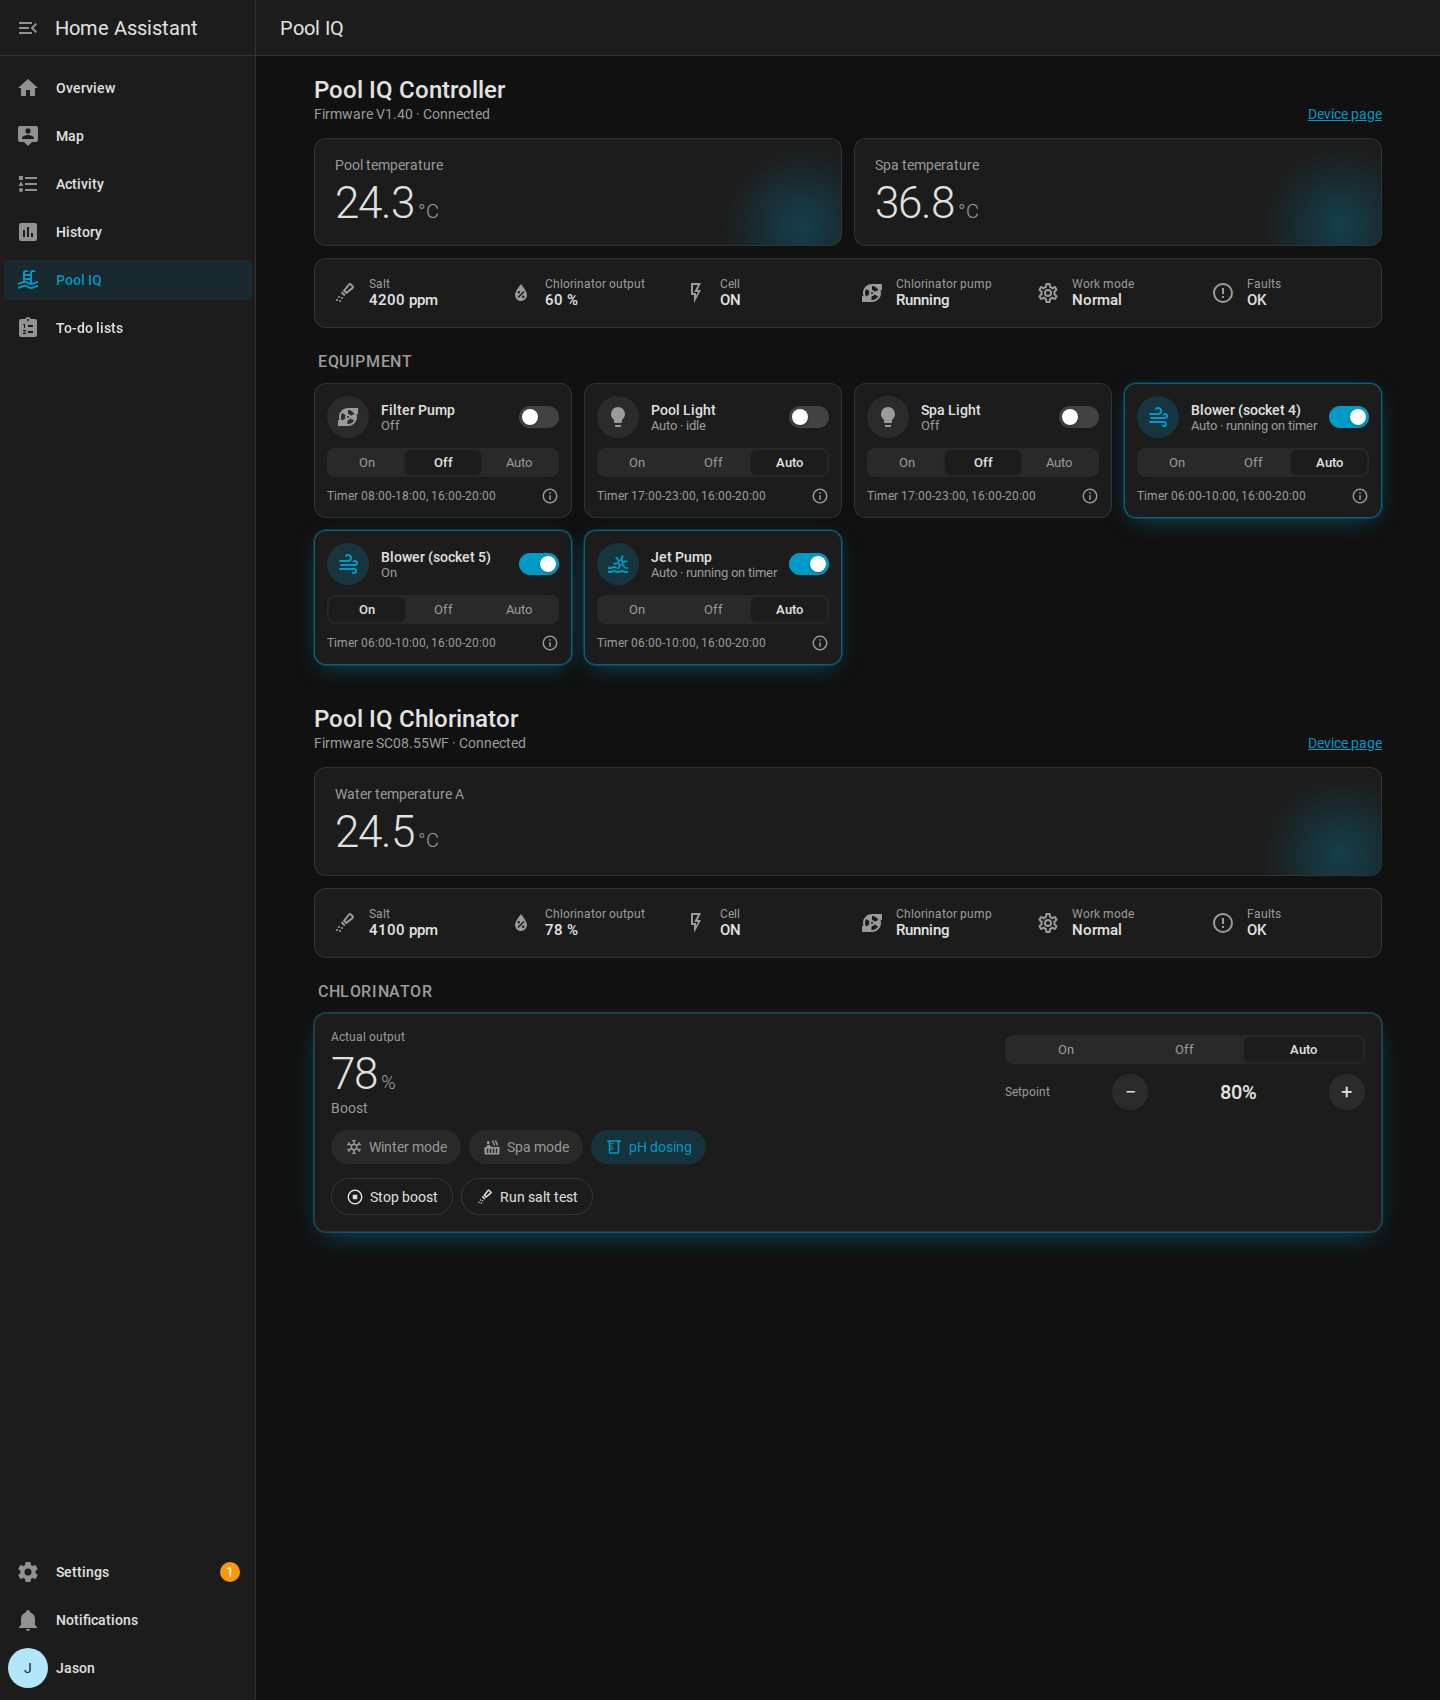
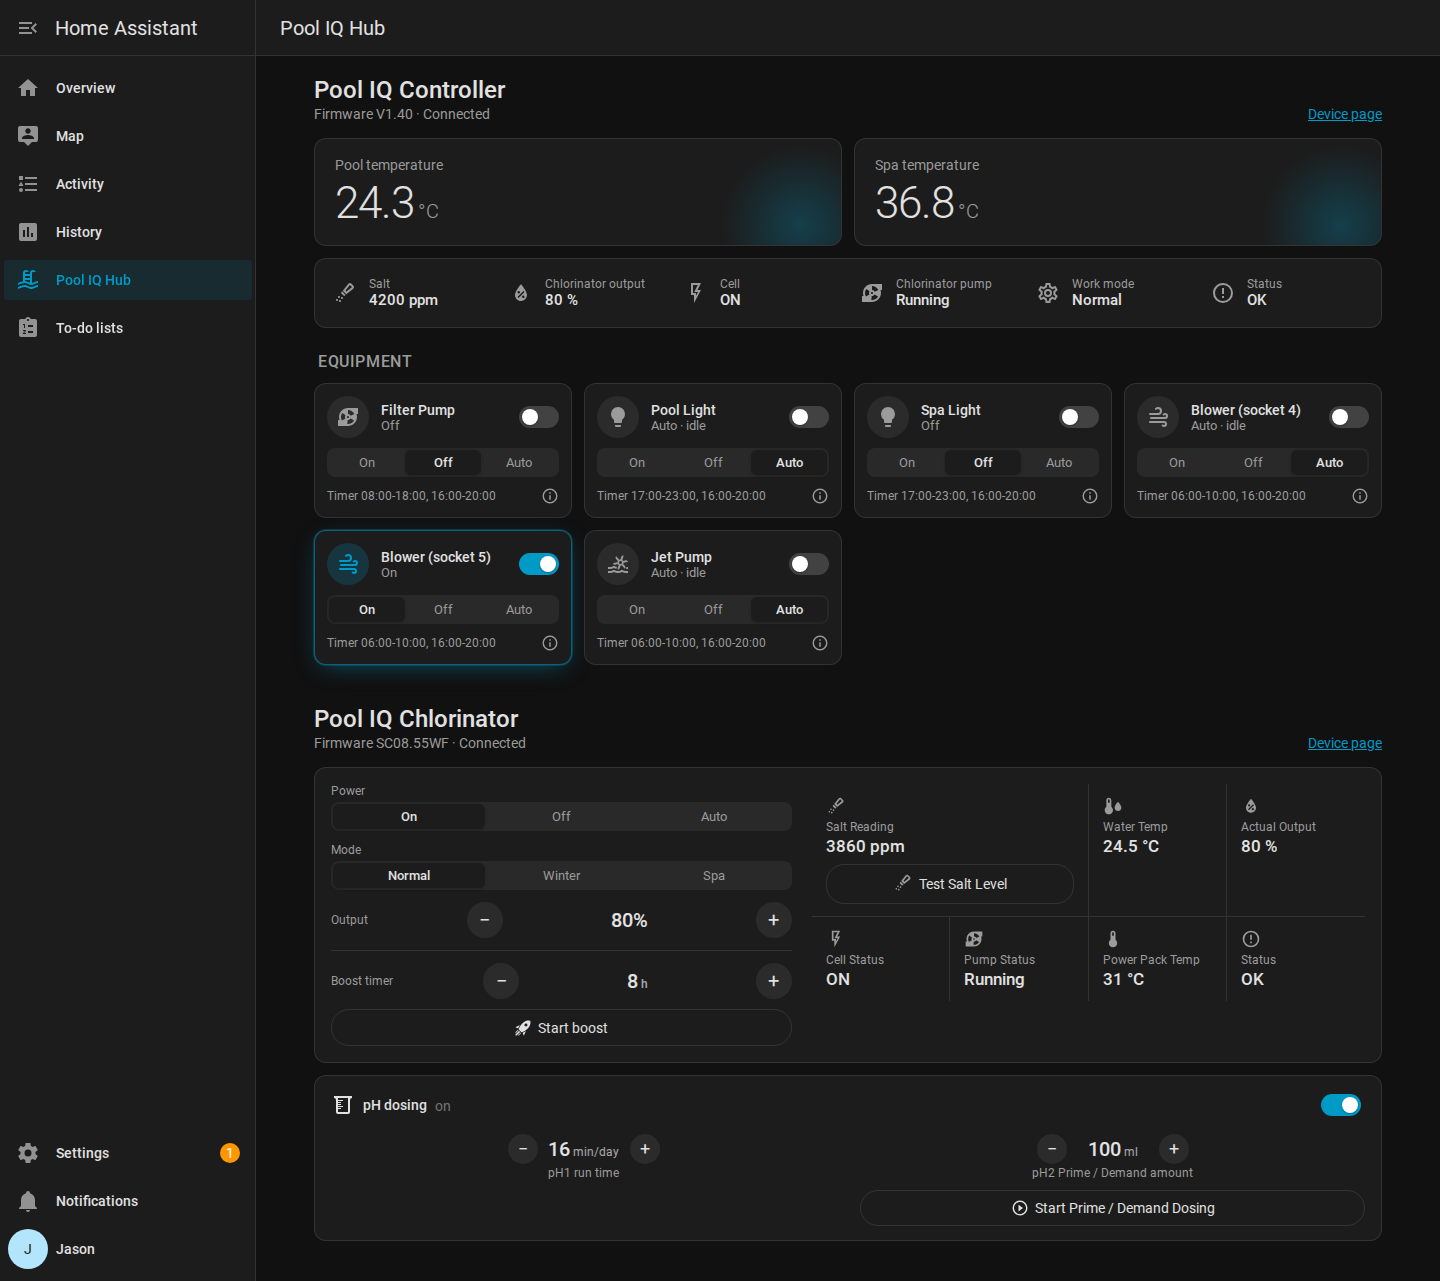
Release 0.4.8: sidebar named Pool IQ Hub, screenshots updated
- Sidebar item and page title renamed to Pool IQ Hub (option label too).
- README and install guide screenshots retaken with the current layout:
  full page, phone view, chlorinator device page, setup form.
- README and install guide describe the controller and chlorinator pages.

Claude-Session: https://claude.ai/code/session_01257QZwe8CHSdfKF85YoHYN

diff --git a/custom_components/pooliq/frontend/pooliq-panel.js b/custom_components/pooliq/frontend/pooliq-panel.js
@@ -1,5 +1,5 @@
 /*
- * Pool IQ sidebar panel for Home Assistant.
+ * Pool IQ Hub sidebar panel for Home Assistant.
  * Plain web component, no build step. Uses Home Assistant theme variables so it
  * follows the user's light/dark theme. Talks to the integration through the
  * "pooliq/devices" websocket command and normal service calls.
@@ -238,7 +238,7 @@ class PoolIQPanel extends HTMLElement {
       <style>${STYLES}</style>
       <div class="toolbar">
         <ha-menu-button></ha-menu-button>
-        <div class="title">Pool IQ</div>
+        <div class="title">Pool IQ Hub</div>
       </div>
       <div class="content">
         ${this._error ? `<div class="banner">${esc(this._error)}</div>` : ""}

diff --git a/custom_components/pooliq/panel.py b/custom_components/pooliq/panel.py
@@ -76,7 +76,7 @@ async def async_setup_panel(hass: HomeAssistant) -> None:
             frontend_url_path=PANEL_URL_PATH,
             webcomponent_name=PANEL_COMPONENT,
             module_url=f"{STATIC_URL}/pooliq-panel.js?v={VERSION}",
-            sidebar_title="Pool IQ",
+            sidebar_title="Pool IQ Hub",
             sidebar_icon="mdi:pool",
             require_admin=False,
             config={},

diff --git a/custom_components/pooliq/const.py b/custom_components/pooliq/const.py
@@ -2,7 +2,7 @@
 from __future__ import annotations
 
 DOMAIN = "pooliq"
-VERSION = "0.4.7"
+VERSION = "0.4.8"
 
 # JetLinks backend the Pool IQ app talks to.
 DEFAULT_HOST = "http://47.236.42.212:8850"

diff --git a/INSTALL.md b/INSTALL.md
@@ -46,19 +46,22 @@ If you see "Login was rejected", check the username and password. If you see "Co
 
 ## Step 4: What you'll see
 
-### Pool IQ in the sidebar
+### Pool IQ Hub in the sidebar
 
-A **Pool IQ** item appears in the left sidebar. It shows:
+A **Pool IQ Hub** item appears in the left sidebar. It shows:
 
-- Pool and spa temperatures
-- Salt level, chlorinator output, cell status, chlorinator pump and fault status
-- Every socket connected to the hub (pumps, lights, blowers) with an on/off toggle and an **On / Off / Auto** selector. Auto returns the socket to its timer, which is shown underneath.
+- **Controller hub:** pool and spa temperatures, and every socket connected to the hub (pumps, lights, blowers) with an on/off toggle and an **On / Off / Auto** selector. Auto returns the socket to its timer, which is shown underneath.
+- **Chlorinator:** power (On / Off / Auto), mode (Normal / Winter / Spa), output, a boost timer with countdown, the salt reading with a **Test Salt Level** button, water temperature, cell, pump, power pack and status readings, and pH dosing.
 
 It follows the Home Assistant light or dark theme and works on phones.
 
-![Pool IQ panel](docs/screenshots/panel-dark.png)
+![Pool IQ Hub page](docs/screenshots/panel-dark.png)
 
-To hide the sidebar item, go to **Settings → Devices & services → Pool IQ → Configure** and untick **Show Pool IQ in the sidebar**.
+On a phone:
+
+![Pool IQ Hub page on a phone](docs/screenshots/panel-phone.png)
+
+To hide the sidebar item, go to **Settings → Devices & services → Pool IQ → Configure** and untick **Show Pool IQ Hub in the sidebar**.
 
 ### Device page
 
@@ -79,7 +82,7 @@ Socket names come from the names set in the Pool IQ app. Sockets with the same n
 
 ### More than one Pool IQ device
 
-Each Pool IQ Hub device (controller hub, chlorinator and so on) has its own device ID. Add the integration once per device (**Add integration → Pool IQ** again, with the other device ID). Both appear on the same Pool IQ sidebar page. A chlorinator gets a **Chlorinator** section with power (On / Off / Auto), mode (Normal / Winter / Spa), output for the active mode, pH dosing, boost and salt test.
+Each Pool IQ Hub device (controller hub, chlorinator and so on) has its own device ID. Add the integration once per device (**Add integration → Pool IQ** again, with the other device ID). Both appear on the same Pool IQ Hub sidebar page. A chlorinator gets a **Chlorinator** section with power (On / Off / Auto), mode (Normal / Winter / Spa), output for the active mode, pH dosing, boost and salt test.
 
 ## Step 5 (optional): Automations
 

diff --git a/README.md b/README.md
@@ -6,13 +6,13 @@ The Pool IQ app has no official Home Assistant integration. This talks to the sa
 
 > **New installing this?** See [INSTALL.md](INSTALL.md) for a step-by-step guide with screenshots.
 
-## Pool IQ sidebar panel
+## Pool IQ Hub sidebar page
 
-After setup, a **Pool IQ** item appears in the Home Assistant sidebar: a ready-made control panel with pool and spa temperatures, chlorinator status, and every socket with an on/off toggle and an On/Off/Auto selector. It follows your light/dark theme and works on mobile. No dashboard editing required.
+After setup, a **Pool IQ Hub** item appears in the Home Assistant sidebar: a ready-made control page. A controller hub shows pool and spa temperatures and every socket with an on/off toggle and an On/Off/Auto selector. A chlorinator shows power, mode, output, boost timer, salt reading with a salt test button, status readings and pH dosing. It follows your light/dark theme and works on mobile. No dashboard editing required.
 
-![Pool IQ panel](docs/screenshots/panel-dark.png)
+![Pool IQ Hub page](docs/screenshots/panel-dark.png)
 
-Turn it off under **Pool IQ → Configure → Show Pool IQ in the sidebar** if you'd rather build your own dashboard.
+Turn it off under **Pool IQ → Configure → Show Pool IQ Hub in the sidebar** if you'd rather build your own dashboard.
 
 ## Entities
 
@@ -83,7 +83,7 @@ Finding the device ID: it is shown in the Pool IQ app. A controller hub and a ch
 1. **Settings → Devices & Services → Add Integration → Pool IQ**.
 2. Enter your **device ID** and the **username** and **password** supplied by Pool IQ Hub. Leave the backend host as it is.
 3. Submit. The integration logs in, confirms it can read the device, and creates the entities.
-4. **More than one device?** Repeat these steps for each one (for example, once for the controller hub and once for the chlorinator). They all appear on the same Pool IQ sidebar page.
+4. **More than one device?** Repeat these steps for each one (for example, once for the controller hub and once for the chlorinator). They all appear on the same Pool IQ Hub sidebar page.
 
 Devices are named Pool IQ Controller, Pool IQ Chlorinator or Pool IQ Device depending on what they report. Rename any of them in Home Assistant (for example "Water filler") and the sidebar page follows.
 

diff --git a/CHANGELOG.md b/CHANGELOG.md
@@ -1,5 +1,10 @@
 # Changelog
 
+## 0.4.8
+
+- The sidebar item is now called **Pool IQ Hub**.
+- README and install guide screenshots updated to the current layout, including a phone view.
+
 ## 0.4.7
 
 - Chlorinator readings are separated by thin divider lines instead of outlined cards, four across on wide screens and two across on narrower ones, so every row fills evenly.
